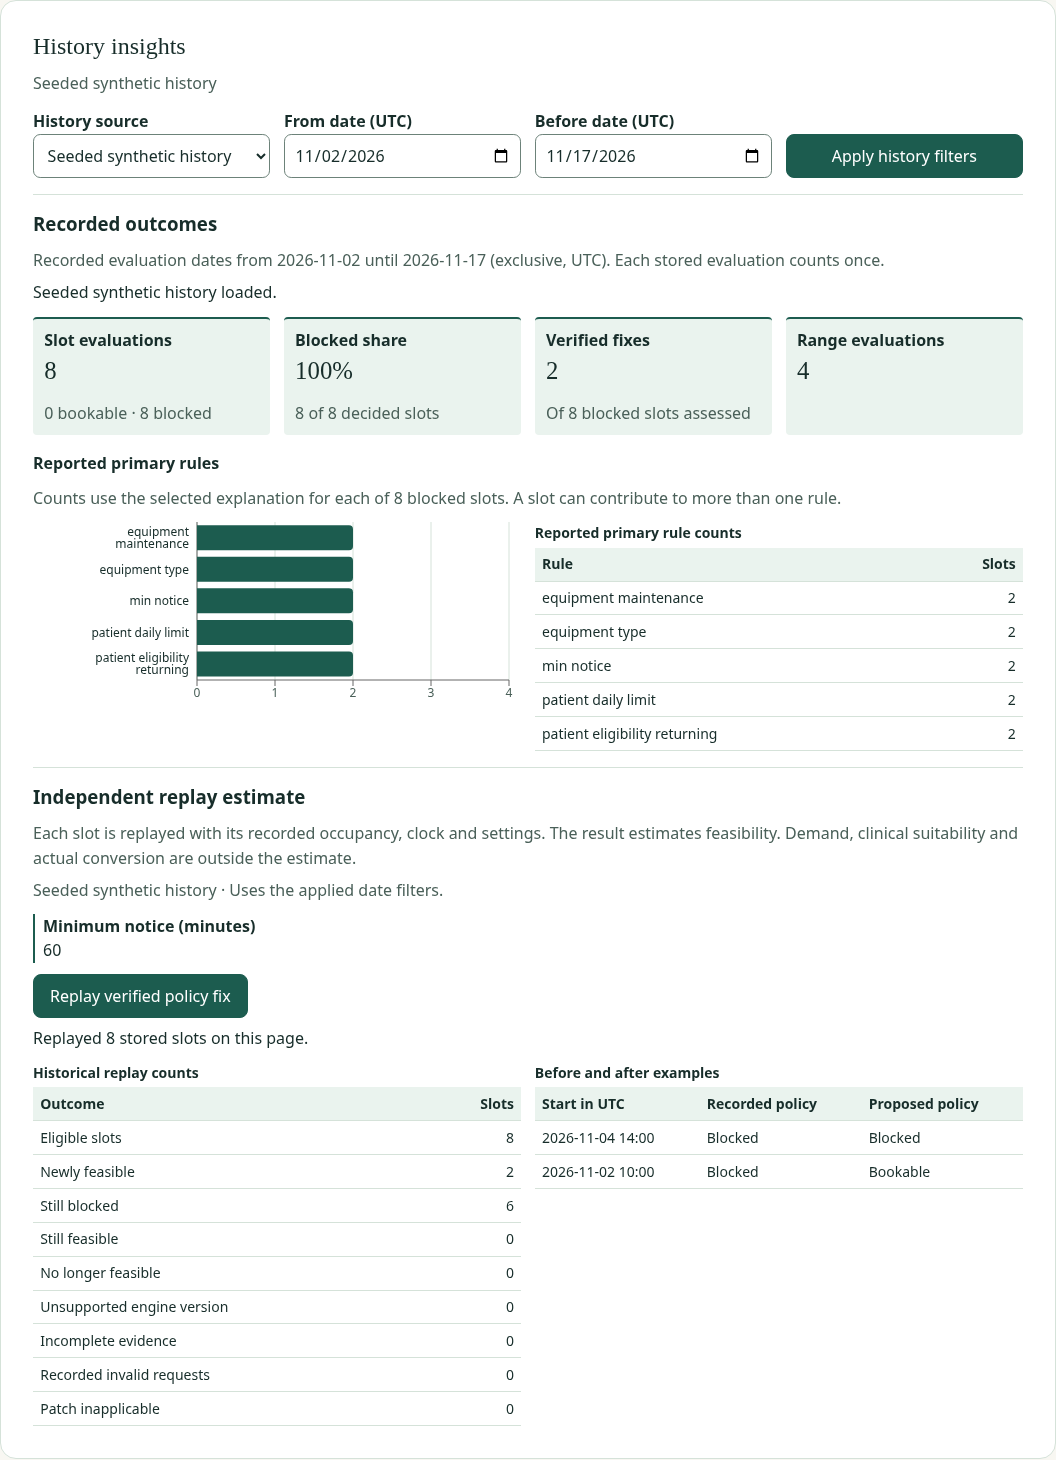
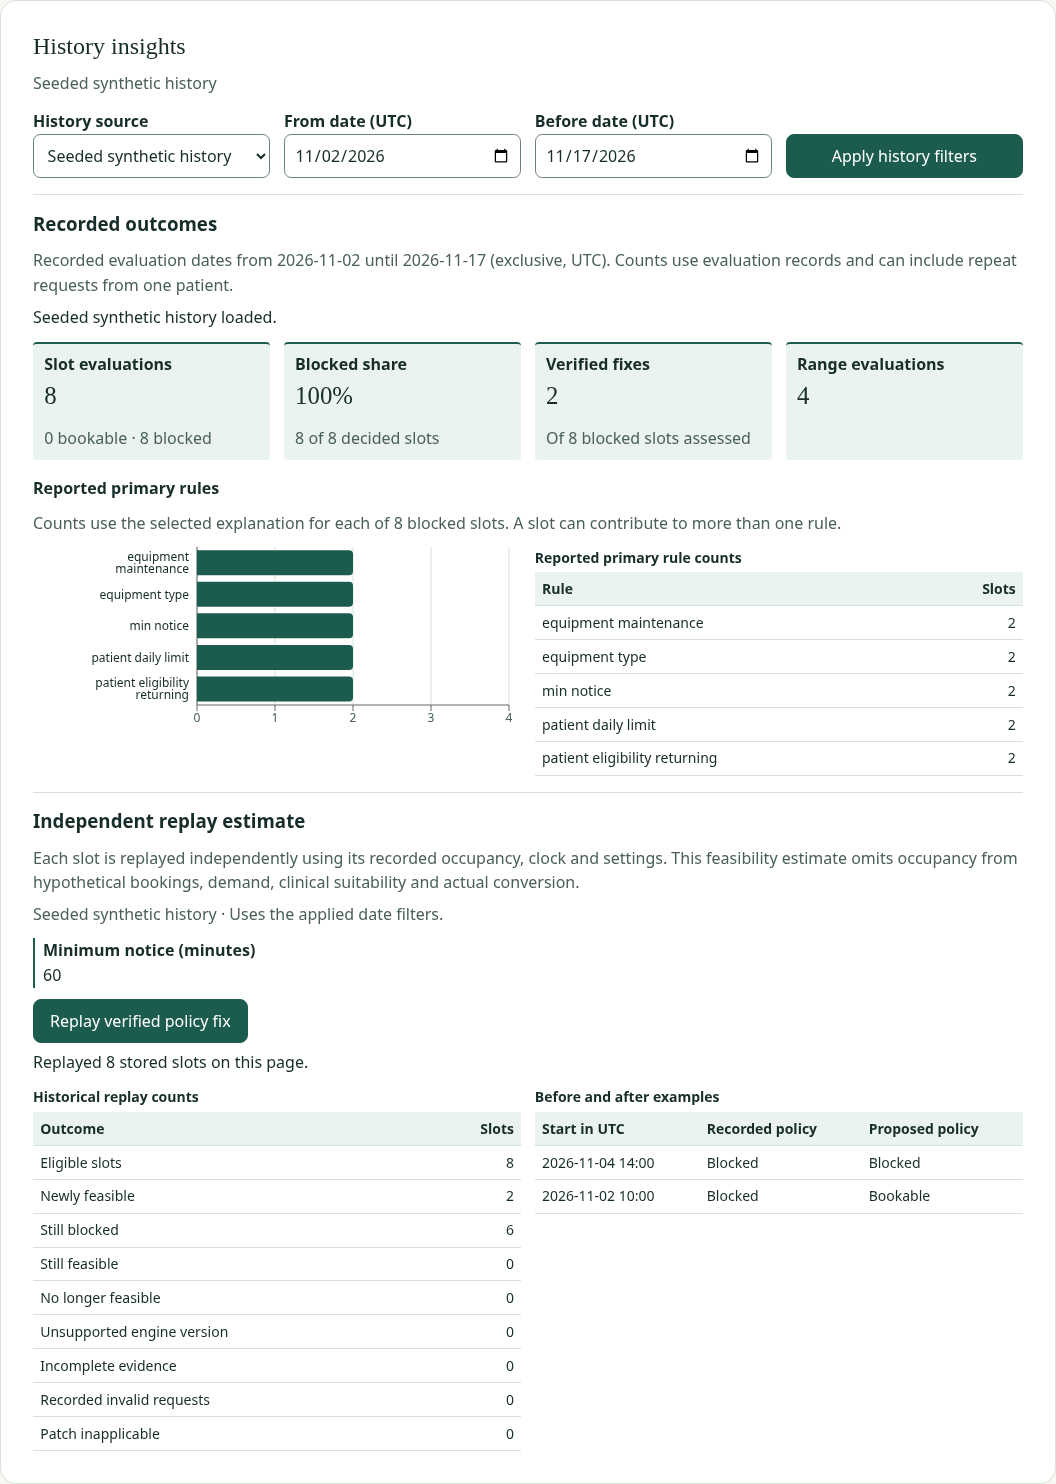
Preserve history focus and clarify replay estimates

diff --git a/apps/web/src/HistoryDashboard.tsx b/apps/web/src/HistoryDashboard.tsx
@@ -88,6 +88,7 @@ function HistorySimulation({
   const result = query.isError || query.isFetching ? undefined : query.data;
 
   function start() {
+    title.current?.focus();
     if (page?.number === 1) void query.refetch();
     else setPage(firstPage);
   }
@@ -103,8 +104,9 @@ function HistorySimulation({
         Independent replay estimate
       </h3>
       <p className="supporting">
-        Each slot is replayed with its recorded occupancy, clock and settings. The result estimates
-        feasibility. Demand, clinical suitability and actual conversion are outside the estimate.
+        Each slot is replayed independently using its recorded occupancy, clock and settings. This
+        feasibility estimate omits occupancy from hypothetical bookings, demand, clinical
+        suitability and actual conversion.
       </p>
       <p className="supporting">{sources[source]} · Uses the applied date filters.</p>
       {changes ? (
@@ -136,7 +138,14 @@ function HistorySimulation({
       {query.isError && (
         <div className="history-pages">
           <p role="alert">Could not replay the stored slots.</p>
-          <button className="secondary" type="button" onClick={() => void query.refetch()}>
+          <button
+            className="secondary"
+            type="button"
+            onClick={() => {
+              title.current?.focus();
+              void query.refetch();
+            }}
+          >
             Retry replay
           </button>
         </div>
@@ -265,8 +274,8 @@ export function HistoryDashboard({
         </h3>
         <p className="supporting">
           Recorded evaluation dates from <time dateTime={window.from}>{filters.from}</time> until{" "}
-          <time dateTime={window.to}>{filters.to}</time> (exclusive, UTC). Each stored evaluation
-          counts once.
+          <time dateTime={window.to}>{filters.to}</time> (exclusive, UTC). Counts use evaluation
+          records and can include repeat requests from one patient.
         </p>
         <p role="status">
           {query.isFetching
@@ -279,7 +288,14 @@ export function HistoryDashboard({
         {query.isError && (
           <div className="history-pages">
             <p role="alert">Could not load history insights.</p>
-            <button className="secondary" type="button" onClick={() => void query.refetch()}>
+            <button
+              className="secondary"
+              type="button"
+              onClick={() => {
+                outcomesTitle.current?.focus();
+                void query.refetch();
+              }}
+            >
               Retry history
             </button>
           </div>

diff --git a/apps/web/e2e/history.full.spec.ts b/apps/web/e2e/history.full.spec.ts
@@ -43,10 +43,13 @@ test("shows seeded outcomes and replays a verified fix against the selected hist
     },
     { times: 1 },
   );
-  await run.click();
+  await run.focus();
+  await page.keyboard.press("Enter");
+  await expect(replay.getByRole("heading", { name: "Independent replay estimate" })).toBeFocused();
   await expect(replay.getByRole("alert")).toHaveText("Could not replay the stored slots.");
   await expect(replay.getByRole("heading", { name: "Independent replay estimate" })).toBeVisible();
   await replay.getByRole("button", { name: "Retry replay" }).click();
+  await expect(replay.getByRole("heading", { name: "Independent replay estimate" })).toBeFocused();
   const counts = replay.getByRole("table", { name: "Historical replay counts" });
   await expect(counts.getByRole("row", { name: "Eligible slots 8" })).toBeVisible();
   await expect(counts.getByRole("row", { name: "Newly feasible 2" })).toBeVisible();
@@ -154,6 +157,7 @@ test("retries a failed history read and applies a date filter that has no data",
   const history = await openHistory(page);
   await expect(history.getByRole("alert")).toHaveText("Could not load history insights.");
   await history.getByRole("button", { name: "Retry history" }).click();
+  await expect(history.getByRole("heading", { name: "Recorded outcomes" })).toBeFocused();
   await expect(history.getByText("Seeded synthetic history loaded.")).toBeVisible();
   await history.getByLabel("From date (UTC)").fill("2020-01-01");
   await history.getByLabel("Before date (UTC)").fill("2020-01-01");

diff --git a/apps/web/src/HistoryRuleChart.tsx b/apps/web/src/HistoryRuleChart.tsx
@@ -1,7 +1,9 @@
 import { Bar, BarChart, CartesianGrid, ResponsiveContainer, XAxis, YAxis } from "recharts";
 
+export type HistoryRuleChartProps = { rows: { label: string; count: number }[] };
+
 /** Show the same reported rule counts available in the adjacent HTML table. */
-export function HistoryRuleChart({ rows }: { rows: { label: string; count: number }[] }) {
+export function HistoryRuleChart({ rows }: HistoryRuleChartProps) {
   return (
     <div className="history-chart" aria-hidden="true">
       <ResponsiveContainer width="100%" height={Math.max(128, rows.length * 32 + 28)}>

diff --git a/apps/web/src/HistoryResults.tsx b/apps/web/src/HistoryResults.tsx
@@ -1,9 +1,10 @@
 import type { InsightsResponse, SimulationResponse } from "@whynot/contracts/api";
-import { lazy, Suspense } from "react";
+import { lazy, Suspense, type ComponentType } from "react";
+import type { HistoryRuleChartProps } from "./HistoryRuleChart.js";
 
 type SourceInsights = InsightsResponse["sources"][number];
 
-const HistoryRuleChart = lazy(() =>
+const HistoryRuleChart = lazy<ComponentType<HistoryRuleChartProps>>(() =>
   import("./HistoryRuleChart.js").then(
     ({ HistoryRuleChart }) => ({ default: HistoryRuleChart }),
     () => ({ default: () => null }),
